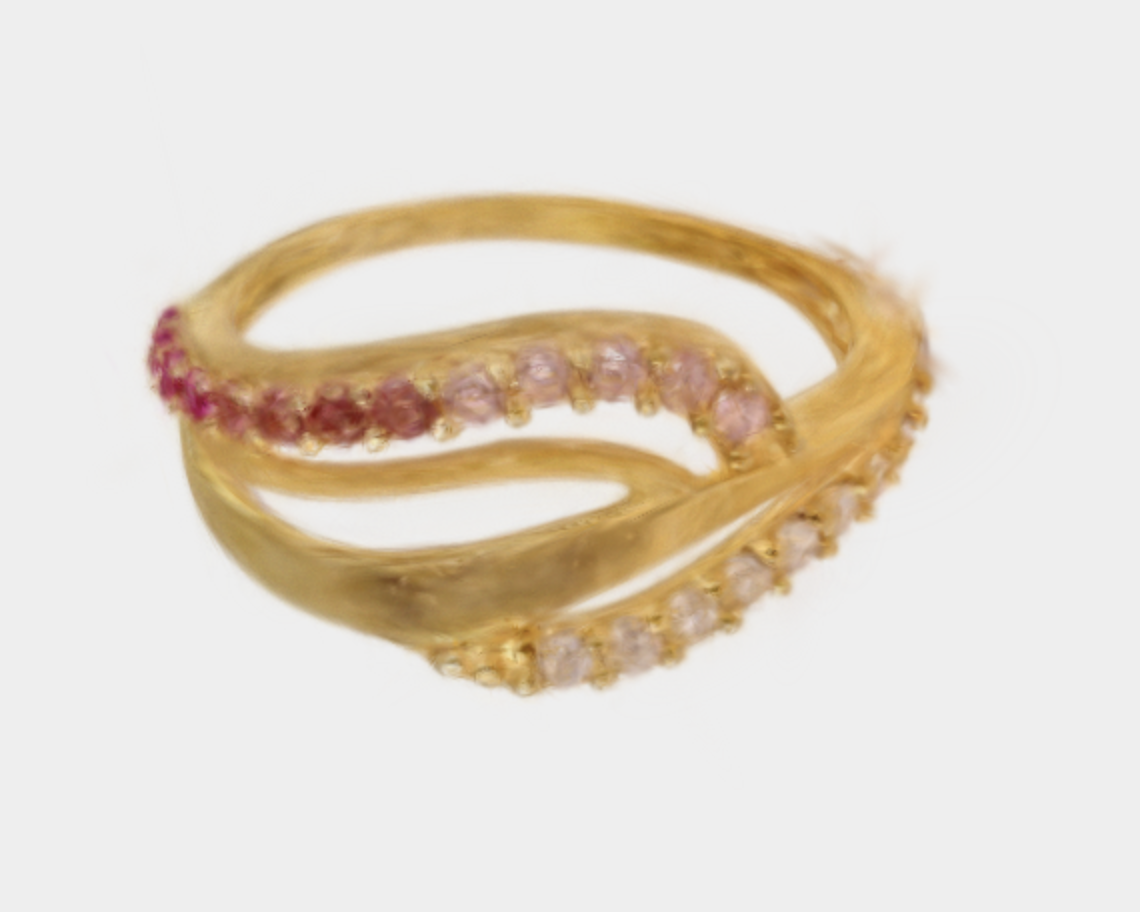
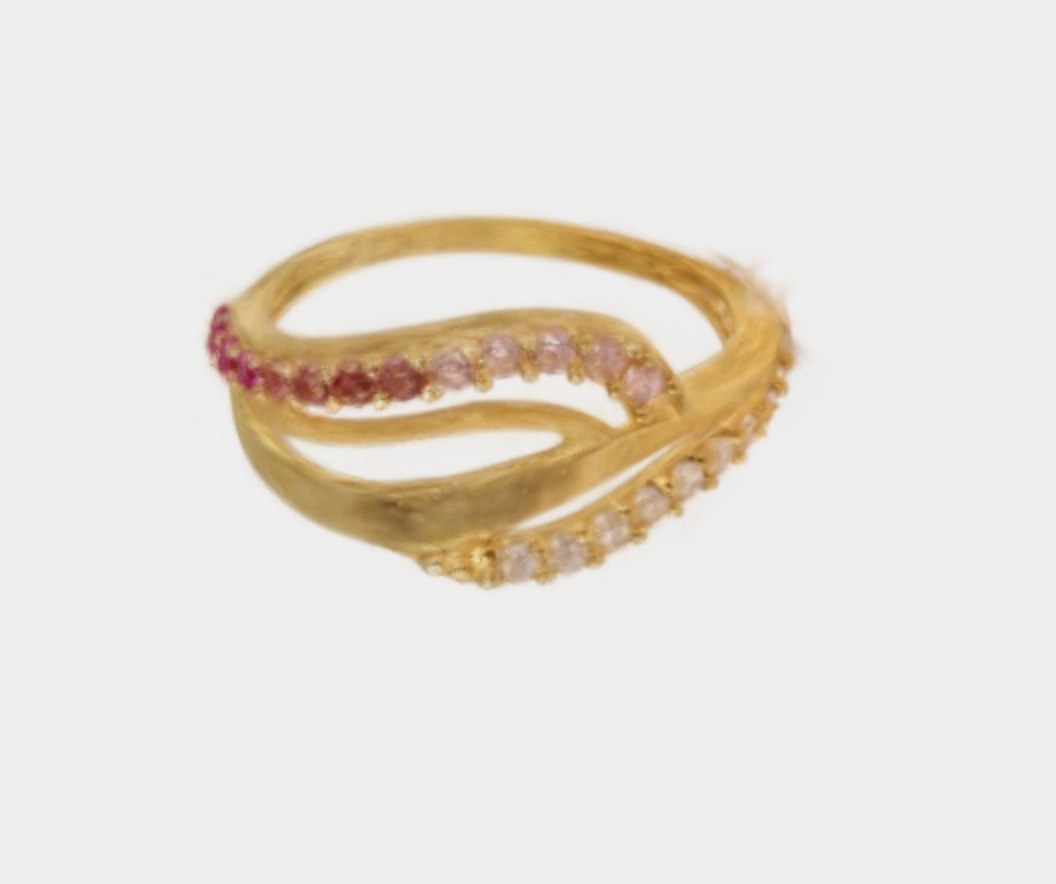
Added depth implementation

Changed region(s): [[0.125, 0.1833, 0.8438, 0.7636]]

diff --git a/index.html b/index.html
@@ -22,24 +22,6 @@
         <div class="jrow home-row" id="jewels_row">
           <div
             class="jewel-container home-jewel"
-            onclick="setJewellery('jewel7')"
-          >
-            <img src="assets/diamondbracelet.png" class="jewelimg" />
-            <div class="selectarea">
-              <button type="button">Diamond Bracelet</button>
-            </div>
-          </div>
-          <div
-            class="jewel-container home-jewel"
-            onclick="setJewellery('jewel12')"
-          >
-            <img src="assets/triveni.png" class="jewelimg" />
-            <div class="selectarea">
-              <button type="button">Triveni Bangle</button>
-            </div>
-          </div>
-          <div
-            class="jewel-container home-jewel"
             onclick="setJewellery('bangle4_gen')"
           >
             <img src="assets/flowerban.png" class="jewelimg" />
@@ -49,11 +31,29 @@
           </div>
           <div
             class="jewel-container home-jewel"
+            onclick="setJewellery('jewel7')"
+          >
+            <img src="assets/diamondbracelet.png" class="jewelimg" />
+            <div class="selectarea">
+              <button type="button">Diamond Bracelet</button>
+            </div>
+          </div>
+          <div
+            class="jewel-container home-jewel"
             onclick="setJewellery('laxmi')"
           >
             <img src="assets/laxmi.png" class="jewelimg" />
             <div class="selectarea">
               <button type="button">Laxmi Bangle</button>
+            </div>
+          </div>
+          <div
+            class="jewel-container home-jewel"
+            onclick="setJewellery('jewel12')"
+          >
+            <img src="assets/triveni.png" class="jewelimg" />
+            <div class="selectarea">
+              <button type="button">Triveni Bangle</button>
             </div>
           </div>
         </div>
@@ -69,20 +69,20 @@
           </div>
           <div
             class="jewel-container home-jewel"
-            onclick="setJewellery('jewel26')"
-          >
-            <img src="assets/flower.png" class="jewelimg" />
-            <div class="selectarea">
-              <button type="button">Flower Ring</button>
-            </div>
-          </div>
-          <div
-            class="jewel-container home-jewel"
             onclick="setJewellery('jewel34')"
           >
             <img src="assets/patterned.png" class="jewelimg" />
             <div class="selectarea">
               <button type="button">Patterned Ring</button>
+            </div>
+          </div>
+          <div
+            class="jewel-container home-jewel"
+            onclick="setJewellery('jewel15')"
+          >
+            <img src="assets/redeye.png" class="jewelimg" />
+            <div class="selectarea">
+              <button type="button">Red Eye Ring</button>
             </div>
           </div>
           <div
@@ -96,11 +96,11 @@
           </div>
           <div
             class="jewel-container home-jewel"
-            onclick="setJewellery('jewel15')"
+            onclick="setJewellery('jewel26')"
           >
-            <img src="assets/redeye.png" class="jewelimg" />
+            <img src="assets/flower.png" class="jewelimg" />
             <div class="selectarea">
-              <button type="button">Red Eye Ring</button>
+              <button type="button">Flower Ring</button>
             </div>
           </div>
         </div>

diff --git a/js/utils.js b/js/utils.js
@@ -3,7 +3,8 @@ let jewelsList = {
     name: "jewel7",
     label: "Diamond Bracelet",
     type: "bangle",
-    baseTheta: 0.15,
+    baseThetaVR: 0.15,
+    baseThetaAR: -0.05,
     basePhi: 2.55,
     baseGama: -0.05,
   },
@@ -11,7 +12,8 @@ let jewelsList = {
     name: "bangle4_gen",
     label: "Flower Bangle",
     type: "bangle",
-    baseTheta: -0.05,
+    baseThetaVR: -0.15,
+    baseThetaAR: -0.05,
     basePhi: -0.6,
     baseGama: -1.55,
   },
@@ -19,7 +21,8 @@ let jewelsList = {
     name: "laxmi",
     label: "Laxmi Bangle",
     type: "bangle",
-    baseTheta: -0.05,
+    baseThetaVR: -0.15,
+    baseThetaAR: -0.05,
     basePhi: -0.6,
     baseGama: -1.55,
   },
@@ -27,7 +30,8 @@ let jewelsList = {
     name: "jewel12",
     label: "Triveni Bangle",
     type: "bangle",
-    baseTheta: 0.15,
+    baseThetaVR: 0.15,
+    baseThetaAR: -0.05,
     basePhi: 2.55,
     baseGama: -1.55,
   },
@@ -35,7 +39,8 @@ let jewelsList = {
     name: "jewel3",
     label: "Queen's Ring",
     type: "ring",
-    baseTheta: 0.15,
+    baseThetaVR: 0.15,
+    baseThetaAR: 0,
     basePhi: 2.55,
     baseGama: -0.05,
   },
@@ -43,7 +48,8 @@ let jewelsList = {
     name: "jewel26",
     label: "Flower Ring",
     type: "ring",
-    baseTheta: -0.05,
+    baseThetaVR: -0.05,
+    baseThetaAR: 0.1,
     basePhi: -0.6,
     baseGama: -1.5,
   },
@@ -51,7 +57,8 @@ let jewelsList = {
     name: "jewel34",
     label: "Patterned Ring",
     type: "ring",
-    baseTheta: -0.05,
+    baseThetaVR: -0.05,
+    baseThetaAR: 0,
     basePhi: -0.6,
     baseGama: -1.5,
   },
@@ -59,7 +66,8 @@ let jewelsList = {
     name: "jewel1",
     label: "Sunny Ring",
     type: "ring",
-    baseTheta: -0.05,
+    baseThetaVR: -0.05,
+    baseThetaAR: 0,
     basePhi: -0.6,
     baseGama: -1.5,
   },
@@ -67,8 +75,9 @@ let jewelsList = {
     name: "jewel15",
     label: "Red Eye Ring",
     type: "ring",
-    baseTheta: -0.05,
-    basePhi: -0.6,
+    baseThetaVR: -0.05,
+    baseThetaAR: 0,
+    basePhi: -0.75,
     baseGama: -1.5,
   },
 };
@@ -97,7 +106,8 @@ function changeJewellery(newJewel) {
   selectedJewel = newJewel || "bangle4_gen";
   showLoading();
   loadGsplat();
-  resetMeshForVR();
+  setJewelParams();
+  resetMeshForAR();
 }
 
 function gotoHome() {
@@ -145,9 +155,10 @@ function setJewelParams() {
   const selectedJewelDetails = jewelsList[selectedJewel];
 
   jewelType = selectedJewelDetails.type || "ring";
-  baseTheta = selectedJewelDetails.baseTheta || 0.25;
-  basePhi = selectedJewelDetails.basePhi || 2.5;
-  baseGama = selectedJewelDetails.baseGama || 2.5;
+  baseThetaVR = selectedJewelDetails.baseThetaVR || 0.15;
+  baseThetaAR = selectedJewelDetails.baseThetaAR || -0.05;
+  basePhi = selectedJewelDetails.basePhi || 2.55;
+  baseGama = selectedJewelDetails.baseGama || -0.05;
 
   let updateNote = document.getElementById("updatenote");
   updateNote.innerText = selectedJewelDetails.label;
@@ -160,19 +171,24 @@ const fullscreen = (mode = true, el = "body") =>
     : document.exitFullscreen();
 
 function resetMeshForAR() {
+  baseTheta = baseThetaAR;
   scaleMul = 0.5;
   XRDelta = 0;
   YRDelta = 0;
   ZRAngle = 0;
+  cameraFar = -1.5;
   gsplatCanvas.style.transform = "none";
 }
 
 function resetMeshForVR() {
   setJewelParams();
+  baseTheta = baseThetaVR;
   scaleMul = 0.75;
   XRDelta = 0;
   YRDelta = 0;
   ZRAngle = 0;
+  cameraFar = 100;
+  cameraNear = 0.1;
   resetGlamCanvas();
 }
 

diff --git a/js/scene.js b/js/scene.js
@@ -384,24 +384,24 @@ function initFromParameters() {
   loadScene(dirUrl, canvasWidth, canvasHeight);
 }
 
-function changeJewellery(newJewel) {
-  const lastJewel = sessionStorage.getItem("selectedJewel");
-  if (lastJewel === newJewel) return;
+// function changeJewellery(newJewel) {
+//   const lastJewel = sessionStorage.getItem("selectedJewel");
+//   if (lastJewel === newJewel) return;
 
-  // const params = new URL(window.location.href).searchParams;
-  sessionStorage.setItem("selectedJewel", newJewel);
-  selectedJewel = newJewel || "flowerbangle";
-  dirUrl = "results/" + selectedJewel + "/" + resolution;
+//   // const params = new URL(window.location.href).searchParams;
+//   sessionStorage.setItem("selectedJewel", newJewel);
+//   selectedJewel = newJewel || "flowerbangle";
+//   dirUrl = "results/" + selectedJewel + "/" + resolution;
 
-  let deviceWidth = document.documentElement.clientWidth;
-  let deviceHeight = document.documentElement.clientHeight;
+//   let deviceWidth = document.documentElement.clientWidth;
+//   let deviceHeight = document.documentElement.clientHeight;
 
-  let canvasHeight = deviceHeight;
-  let canvasWidth = Math.max(deviceWidth, deviceHeight);
+//   let canvasHeight = deviceHeight;
+//   let canvasWidth = Math.max(deviceWidth, deviceHeight);
 
-  showLoading();
-  loadScene(dirUrl, canvasWidth, canvasHeight);
-}
+//   showLoading();
+//   loadScene(dirUrl, canvasWidth, canvasHeight);
+// }
 
 // To handle Camera-Controls events
 function handleEvents() {
@@ -767,4 +767,4 @@ window.THREE.Cache.clear();
 checkDevice();
 start();
 
-window.changeJewellery = changeJewellery;
+// window.changeJewellery = changeJewellery;

diff --git a/js/AR.js b/js/AR.js
@@ -197,7 +197,7 @@ function getYAngleAndRotate(newIndexRef, newPinkyRef, zAngle) {
   if (horizontalRotation) {
     // if (normYAngle > 90) normYAngle = 90;
     // else if (normYAngle < -90) normYAngle = -90;
-    rotateY(normYAngle);
+    rotateY(-normYAngle);
   }
   lastPinkyRef = newPinkyRef;
   lastIndexRef = newIndexRef;
@@ -218,8 +218,8 @@ function getXAngleAndRotate(wrist, newRefOfMid, zAngle) {
     // Normalize the angle to the range of -180 to 180 degrees
     let normXAngle = normalizeAngle(xAngle);
 
-    if (normXAngle < -17) normXAngle = -17;
-    if (normXAngle > 17) normXAngle = 17;
+    if (normXAngle < -20) normXAngle = -20;
+    if (normXAngle > 20) normXAngle = 20;
     // if (jewelType === "ring") {
     //   if (normXAngle >= 0 && normXAngle <= 10) normXAngle = 0;
     // }
@@ -561,7 +561,7 @@ function translateRotateMesh(points, handLabel, isPalmFacing, sourceImage) {
   } else if (jewelType === "ring") {
     if (isDirectionalRing) {
       getZAngleAndRotate(points[13], points[14], canX, canY);
-      // getXAngleAndRotate(points[13], points[14], ZRAngle);
+      getXAngleAndRotate(points[13], points[14], ZRAngle);
     } else {
       if (
         (handLabel === "Right" && facingMode !== "environment") ||
@@ -601,6 +601,10 @@ function translateRotateMesh(points, handLabel, isPalmFacing, sourceImage) {
 
   let smoothenSize = smoothResizing(dist * resizeMul);
   scaleMul = smoothenSize * 0.5;
+
+  const baseNear = jewelType === "bangle" ? -4.35 : -4.3;
+
+  cameraNear = baseNear + scaleMul * 0.01;
   // cameraControls.zoomTo(smoothenSize, false);
 
   if (resize && isArcball)

diff --git a/js/variables.js b/js/variables.js
@@ -28,6 +28,8 @@ let browserName = "";
 let jewelType = "";
 let rawBaseTheta = 0;
 let baseTheta = 0;
+let baseThetaAR = 0;
+let baseThetaVR = 0;
 let basePhi = 0;
 let baseGama = 0;
 let selectedJewel = "";
@@ -39,6 +41,8 @@ let scaleMul = 0.5;
 let isLoading = false;
 let loadPercentage = "0";
 let glamCanvas = null;
+let cameraFar = 100;
+let cameraNear = 0.1;
 
 /**
  * The timestamp of the last frame to be rendered, used to track performance.

diff --git a/js/gsplat.js b/js/gsplat.js
@@ -70,6 +70,10 @@ async function loadGsplat() {
     // scaleFactor to be applied inn all directions
     const scaling = new SPLAT.Vector3(scaleMul, scaleMul, scaleMul);
     splat.scale = scaling;
+    // To cut the back part of jewel
+    camera._data._near = cameraNear;
+    camera._data._far = cameraFar;
+    camera._data._updateProjectionMatrix();
 
     controls.update();
     renderer.render(scene, camera);
